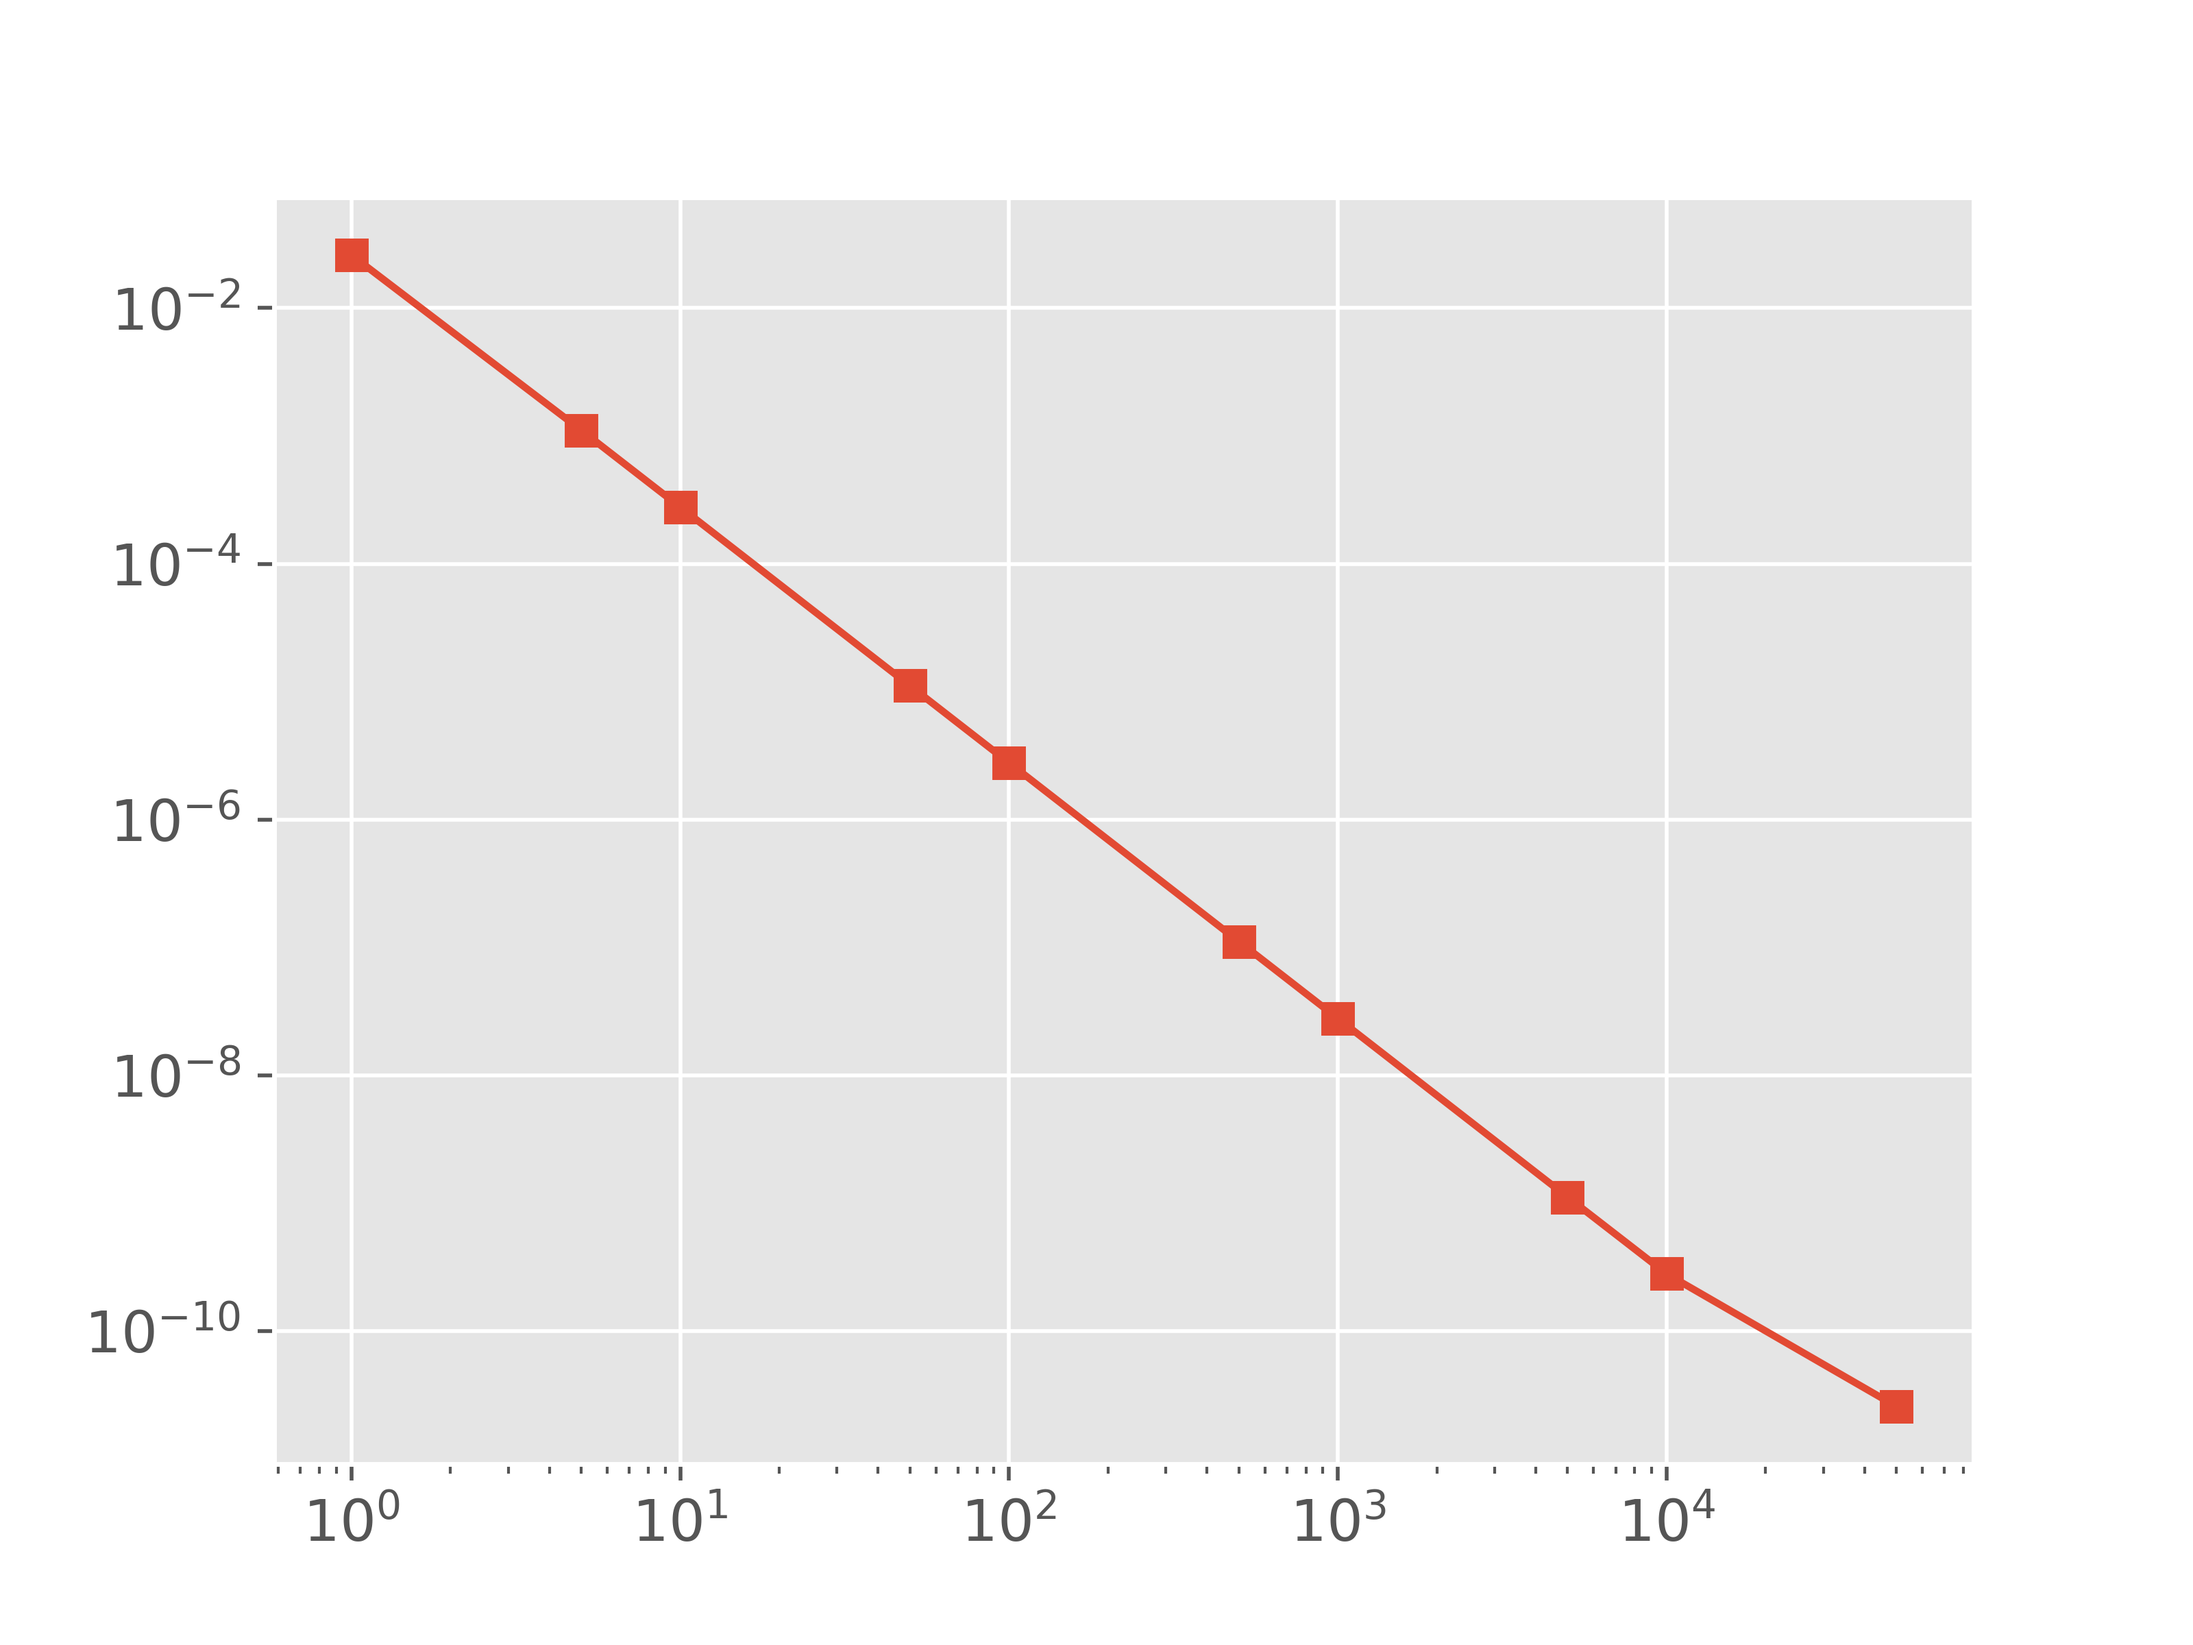
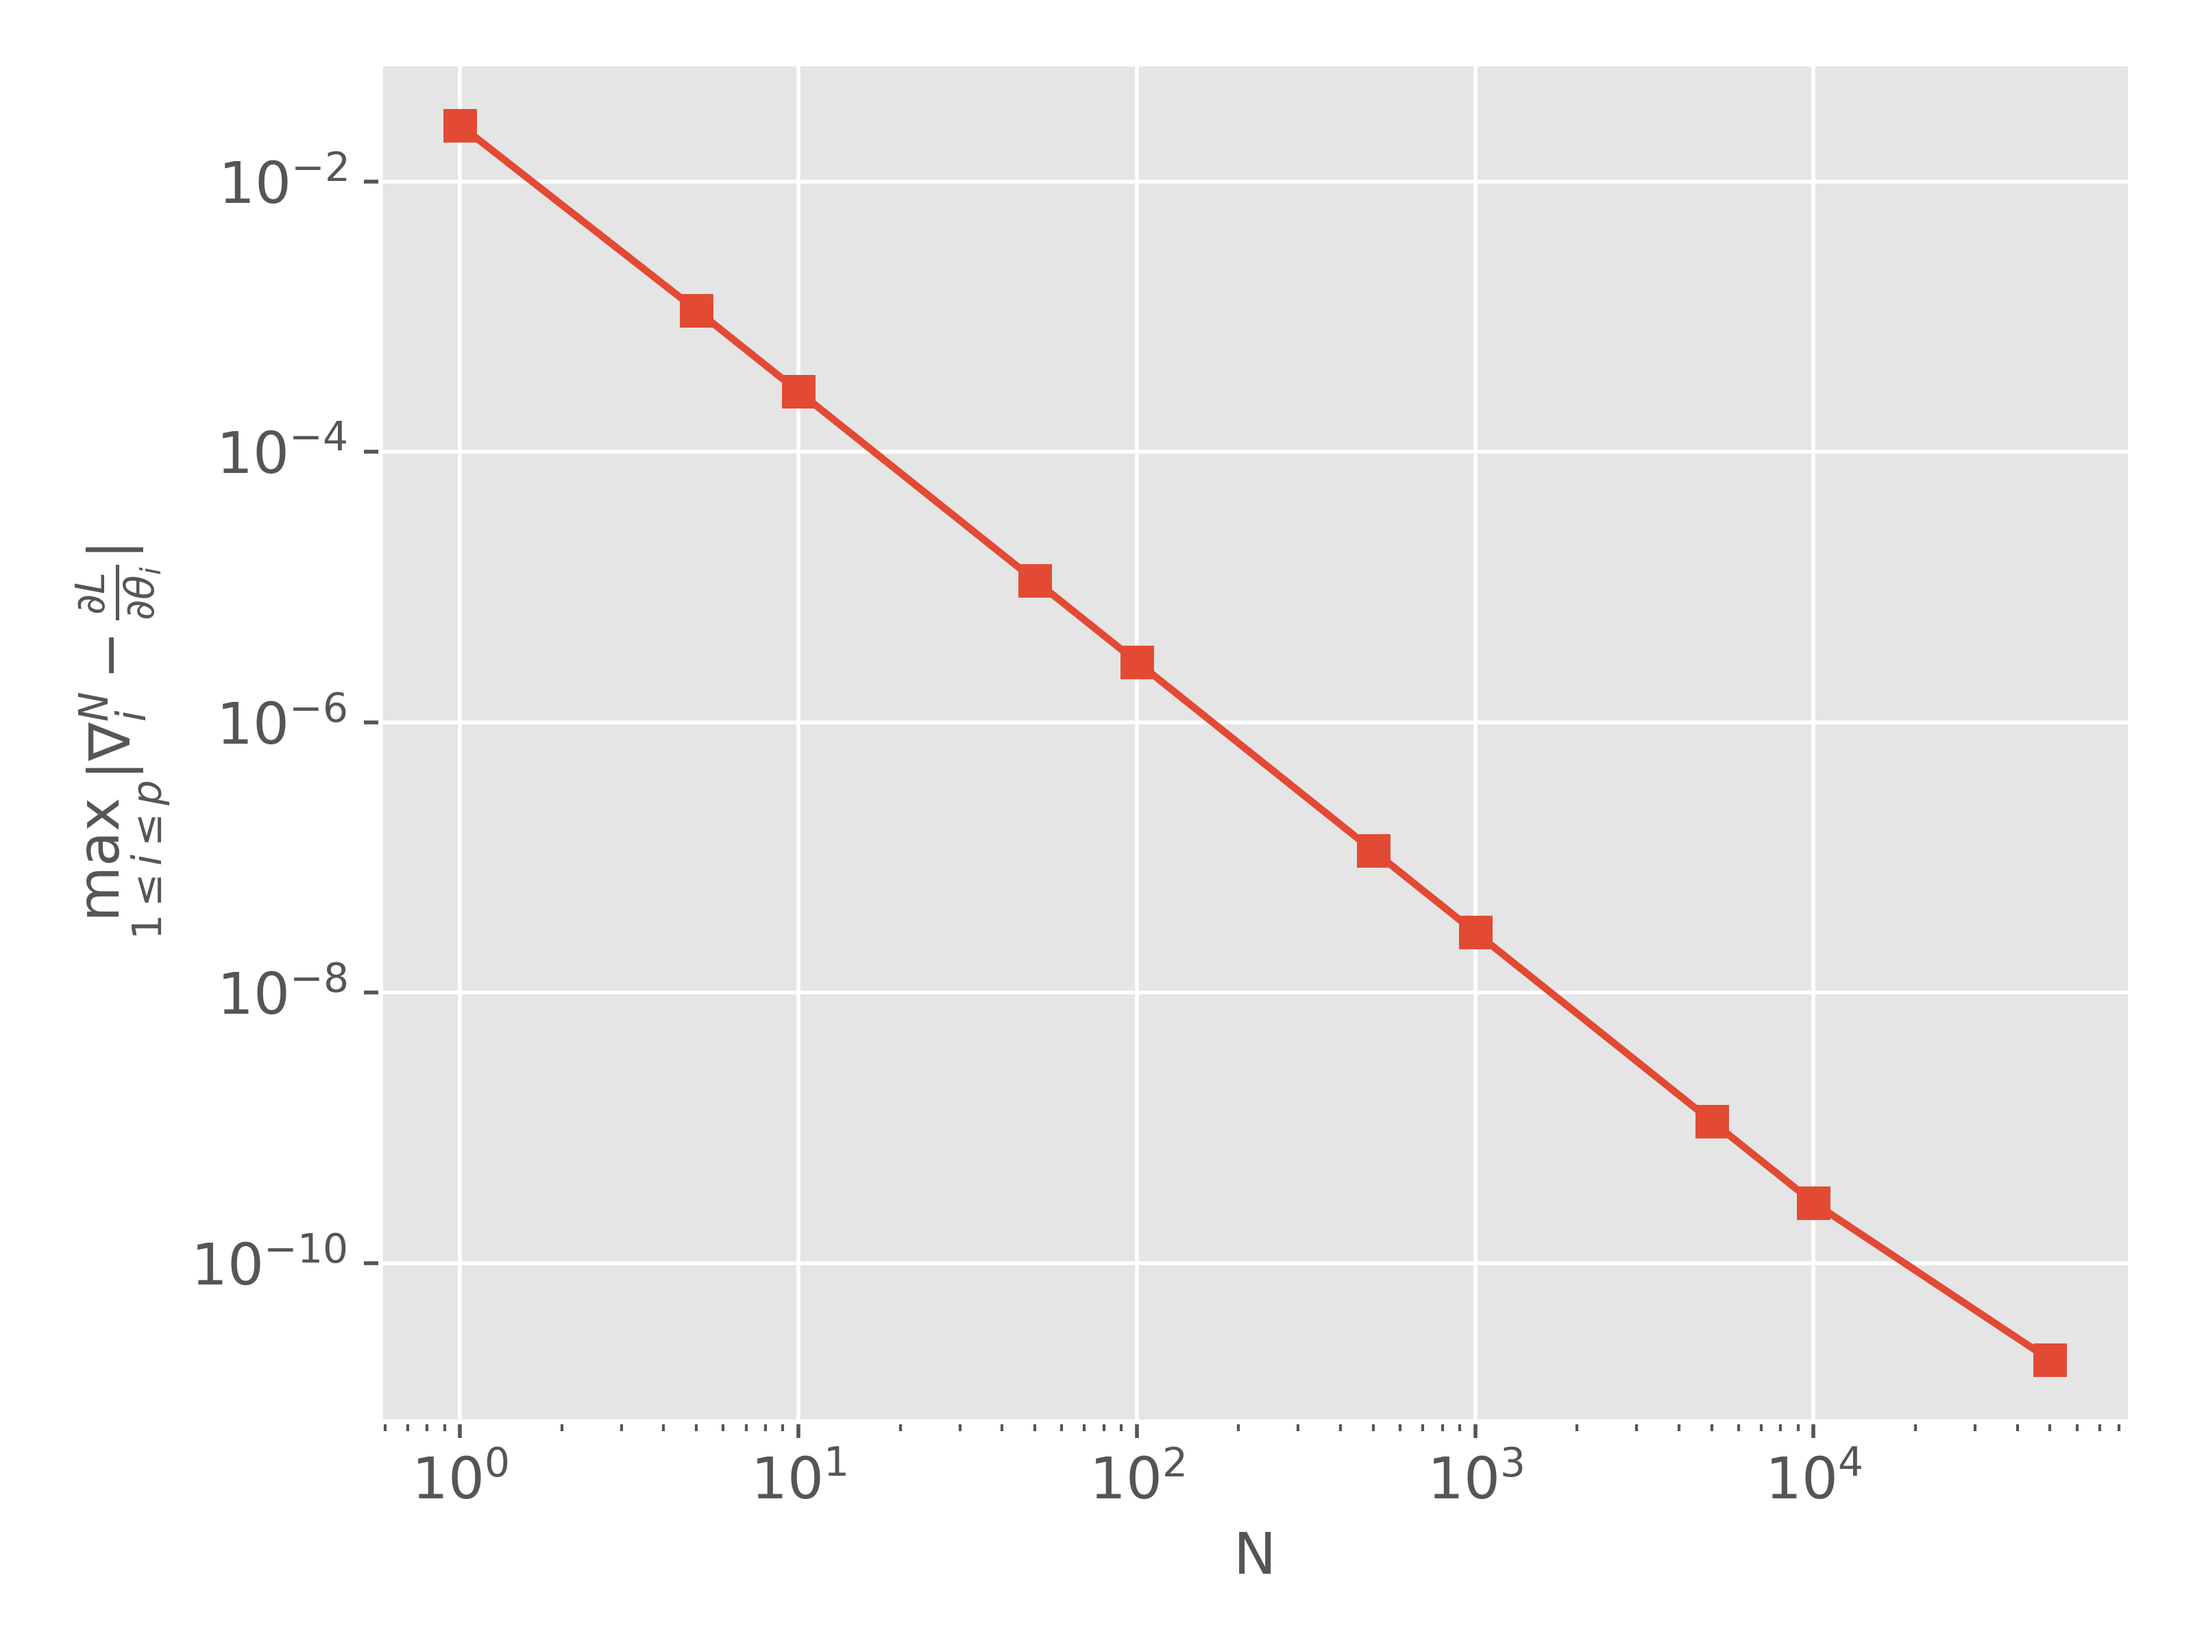
more plots

diff --git a/python/utils/plot_functions.py b/python/utils/plot_functions.py
@@ -33,4 +33,8 @@ def plot_grad_check(model, data):
     
     plt.figure()
     plt.loglog(sorted(N), maxes, marker="s")
+    plt.xlabel("N")
+    plt.ylabel(r"$\max_{1 \leq i \leq p} |\nabla^N_i"
+        + r"-\frac{\partial L}{\partial \theta_i}|$")
+    plt.tight_layout()
     plt.savefig("../../graphs/gradcheck.png", dpi=500)
